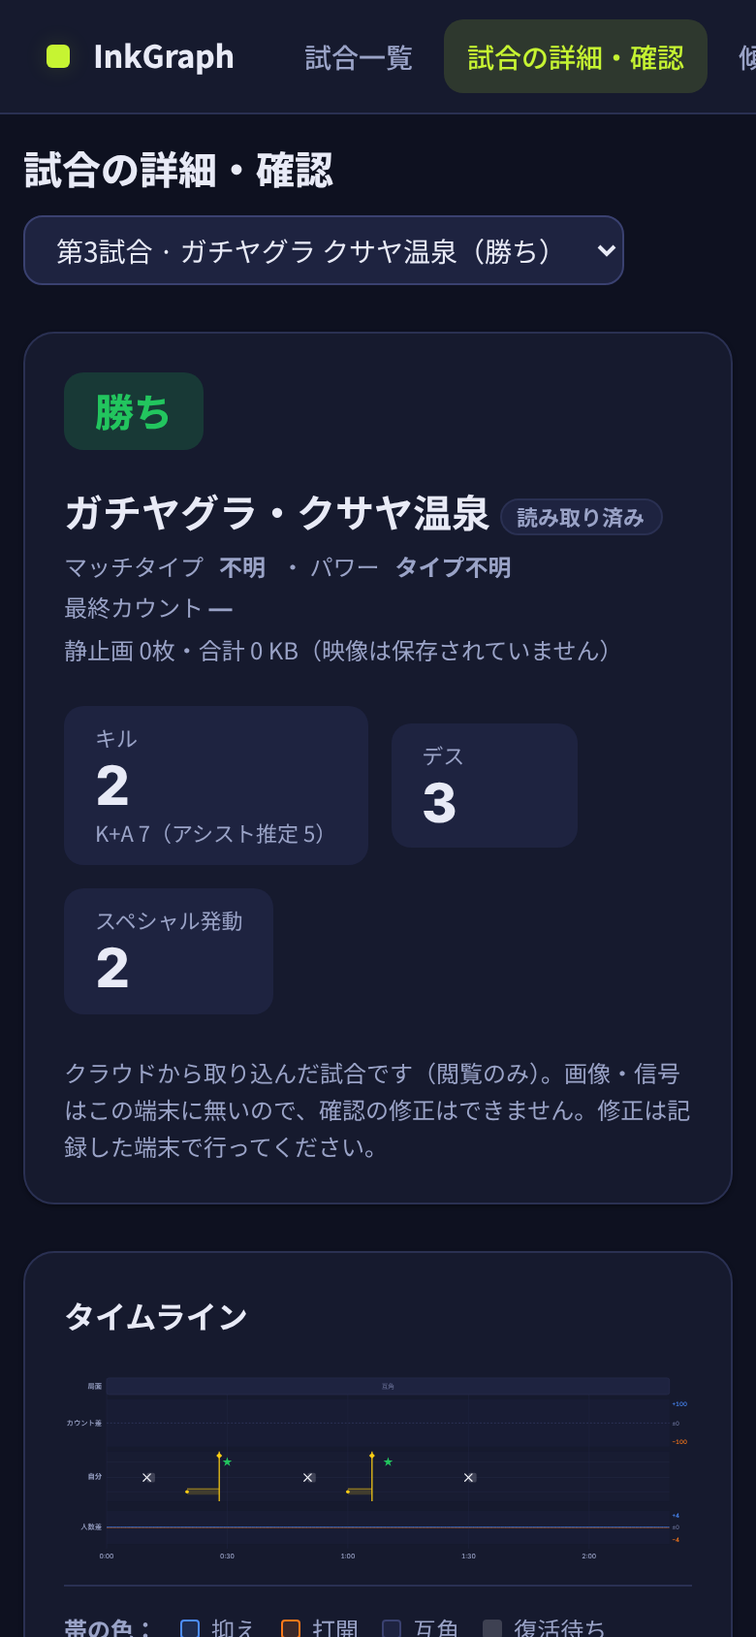
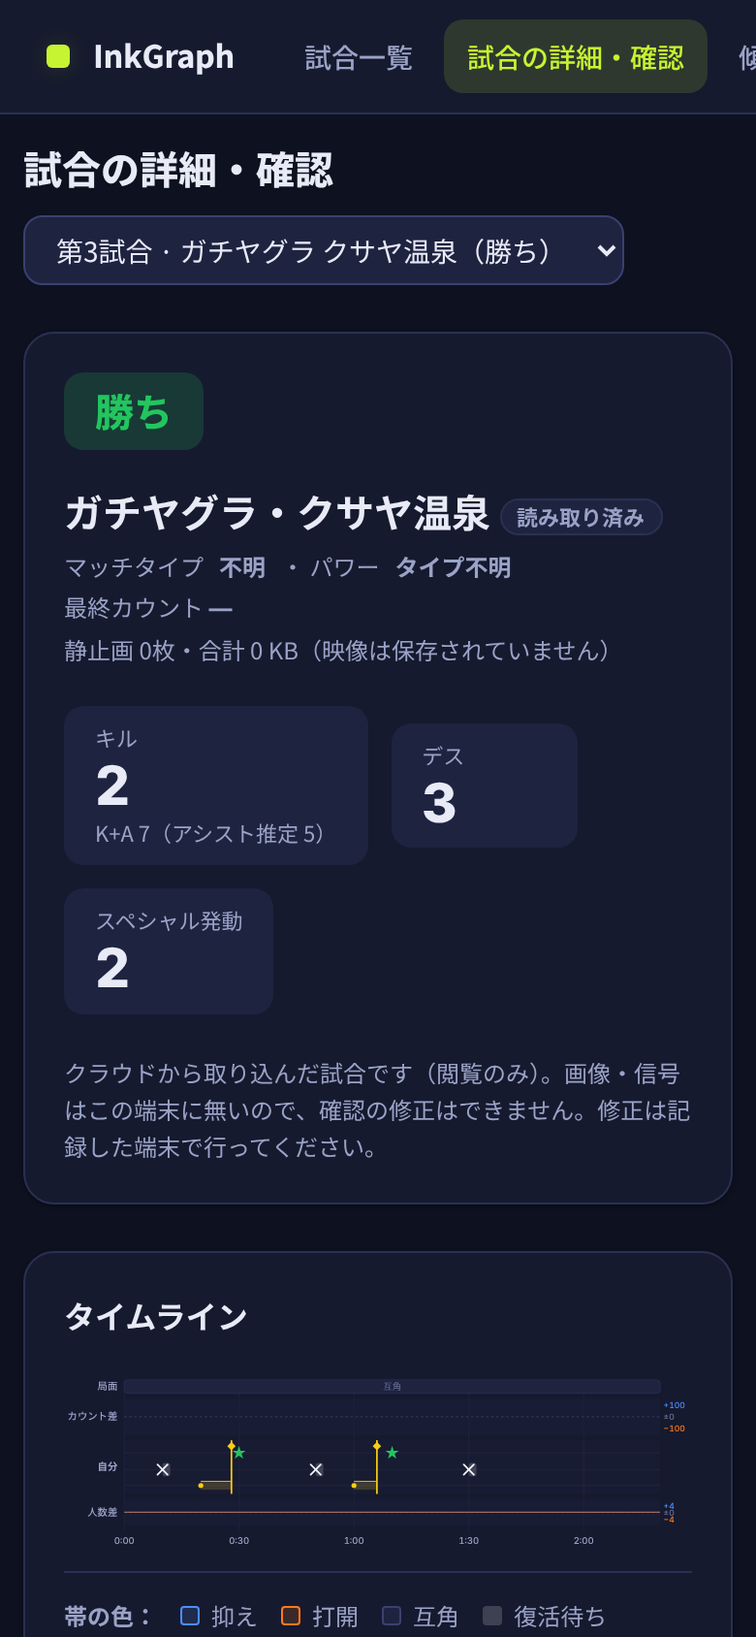
詳細画面の配置: 録画｜出来事を上段、コンパクトなタイムラインを下段 (D89) (#184)
* 検証録画: 直近1試合の全コマ＋分析結果のzip書き出し (D67)

Claude-Session: https://claude.ai/code/session_018zsqgbHNLDpb8cVTBpk5SR

* 試合ごとの録画ファイル: ルール・ステージ入りの名前で1試合1ファイル (D68)

Claude-Session: https://claude.ai/code/session_018zsqgbHNLDpb8cVTBpk5SR

* 試合録画にゲーム音を追加 (D68追記)

Claude-Session: https://claude.ai/code/session_018zsqgbHNLDpb8cVTBpk5SR

* ブキアイコンの読み違い対策（ボードの数が読めない枠を捨てる・絵の無いアイコンを出さない）と記録の全消去ボタン (D69)

Claude-Session: https://claude.ai/code/session_018zsqgbHNLDpb8cVTBpk5SR

* 試合録画: 状況表示と保存先の書き込み許可の聞き直し (D70)

Claude-Session: https://claude.ai/code/session_018zsqgbHNLDpb8cVTBpk5SR

* 試合録画: 2試合連続で別ファイルになることのテストを追加

Claude-Session: https://claude.ai/code/session_018zsqgbHNLDpb8cVTBpk5SR

* Windows デスクトップ版（Electron）の追加。ブラウザ版は録画なし・隠さない注意つきで残す (D71)

Claude-Session: https://claude.ai/code/session_018zsqgbHNLDpb8cVTBpk5SR

* 録画の診断通知を各段階に追加 (D71追記)

Claude-Session: https://claude.ai/code/session_018zsqgbHNLDpb8cVTBpk5SR

* Windows版ビルドをmainの変更で自動実行し、固定リリース desktop-latest に出す

Claude-Session: https://claude.ai/code/session_018zsqgbHNLDpb8cVTBpk5SR

* ライブ映像で「早送り」が渡って録画・中断検出が切れていた不具合を修正 (D71追記)

Claude-Session: https://claude.ai/code/session_018zsqgbHNLDpb8cVTBpk5SR

* 録画形式をMP4(H.264)にする。WebMも選べる (D72)

Claude-Session: https://claude.ai/code/session_018zsqgbHNLDpb8cVTBpk5SR

* video_rec_check: 既定のMP4に合わせてテストを更新

Claude-Session: https://claude.ai/code/session_018zsqgbHNLDpb8cVTBpk5SR

* 録画を60fps・音声192kbpsに。画質(5/8/12Mbps)を選べる (D72追記)
[…]

diff --git a/web/src/timeline.js b/web/src/timeline.js
@@ -43,7 +43,8 @@ export function renderTimeline(m, { onSeek, onReviewChange, reviewMode, cands = 
   popAbort = new AbortController();
   const popSignal = popAbort.signal;
   const t0 = m.battle[0], t1 = m.battle[1], Tm = Math.max(60, t1 - t0);
-  const L = 72, Wd = 950, Rpad = 38, W = L + Wd + Rpad;
+  // D89: コンパクトな表示。幅は、置かれた場所の幅に合わせる（viewBox を実寸に近づけて、縦も文字も大きく伸びないようにする）
+  const L = 72, Rpad = 38, hostW = (typeof document !== 'undefined' && document.querySelector('#tl')?.clientWidth) || 0, Wd = hostW ? Math.max(640, Math.min(1700, hostW - L - Rpad)) : 950, W = L + Wd + Rpad;
   const X = t => L + Math.max(0, Math.min(1, (t - t0) / Tm)) * Wd;
   const ev = effective(m), S = series(m), holderSegs = holderSegments(m);
   const uid = Math.random().toString(36).slice(2, 8);
@@ -61,8 +62,8 @@ export function renderTimeline(m, { onSeek, onReviewChange, reviewMode, cands = 
   let body = '';
 
   // ---------------- 1. 局面の帯 (28px) ----------------
-  const phaseY = y, phaseH = 28;
-  body += `<text x="${L - 8}" y="${phaseY + 18}" text-anchor="end" font-size="12" font-weight="500" fill="var(--text-muted)">局面</text>`;
+  const phaseY = y, phaseH = 16;
+  body += `<text x="${L - 8}" y="${phaseY + 12}" text-anchor="end" font-size="12" font-weight="500" fill="var(--text-muted)">局面</text>`;
   body += `<rect x="${L}" y="${phaseY}" width="${Wd}" height="${phaseH}" fill="var(--surface-2)" rx="4"/>`;
   if (S.length) {
     const runs = [];
@@ -82,18 +83,18 @@ export function renderTimeline(m, { onSeek, onReviewChange, reviewMode, cands = 
       const col = r.ph === '抑え' ? 'var(--ally)' : r.ph === '打開' ? 'var(--enemy)' : 'var(--text-muted)';
       body += `<rect x="${xa.toFixed(1)}" y="${phaseY}" width="${w.toFixed(1)}" height="${phaseH}" fill="${fill}"/>`;
       if (w >= 36) {
-        body += `<text x="${((xa + xb) / 2).toFixed(1)}" y="${phaseY + 18}" text-anchor="middle" font-size="11" font-weight="700" fill="${col}">${r.ph}</text>`;
+        body += `<text x="${((xa + xb) / 2).toFixed(1)}" y="${phaseY + 12}" text-anchor="middle" font-size="11" font-weight="700" fill="${col}">${r.ph}</text>`;
       }
     }
   } else {
-    body += `<text x="${L + Wd / 2}" y="${phaseY + 18}" text-anchor="middle" font-size="11" fill="var(--text-faint)">互角</text>`;
+    body += `<text x="${L + Wd / 2}" y="${phaseY + 12}" text-anchor="middle" font-size="11" fill="var(--text-faint)">互角</text>`;
   }
   body += unknownBand(phaseY, phaseH);
   body += `<rect x="${L}" y="${phaseY}" width="${Wd}" height="${phaseH}" fill="none" stroke="var(--border)" rx="4"/>`;
-  y += phaseH + 8;
+  y += phaseH + 6;
 
   // ---------------- 2. カウント差のグラフ (80px) ----------------
-  const cdY = y, cdH = 80, cdMid = cdY + cdH / 2;
+  const cdY = y, cdH = 44, cdMid = cdY + cdH / 2;
   const Ycd = d => cdMid - (Math.max(-100, Math.min(100, d || 0)) / 100) * (cdH / 2 - 6);
   defs += `<clipPath id="cd-pos-${uid}"><rect x="${L}" y="${cdY}" width="${Wd}" height="${cdH / 2}"/></clipPath>`;
   defs += `<clipPath id="cd-neg-${uid}"><rect x="${L}" y="${cdMid}" width="${Wd}" height="${cdH / 2}"/></clipPath>`;
@@ -110,12 +111,12 @@ export function renderTimeline(m, { onSeek, onReviewChange, reviewMode, cands = 
   body += `<text x="${L + Wd + 4}" y="${cdY + 12}" class="num" font-size="10" fill="var(--ally)">+100</text>`;
   body += `<text x="${L + Wd + 4}" y="${cdMid + 4}" class="num" font-size="10" fill="var(--text-faint)">±0</text>`;
   body += `<text x="${L + Wd + 4}" y="${cdY + cdH - 4}" class="num" font-size="10" fill="var(--enemy)">−100</text>`;
-  y += cdH + 8;
+  y += cdH + 6;
 
   // ---------------- 3. 自分レーン (84px) ----------------
-  const ownY = y, ownH = 84;
-  const rowY = { kill: ownY + 18, death: ownY + 44, special: ownY + 68 };
-  body += `<text x="${L - 8}" y="${ownY + 46}" text-anchor="end" font-size="12" font-weight="700" fill="var(--text-muted)">自分</text>`;
+  const ownY = y, ownH = 64;
+  const rowY = { kill: ownY + 15, death: ownY + 35, special: ownY + 54 };
+  body += `<text x="${L - 8}" y="${ownY + 36}" text-anchor="end" font-size="12" font-weight="700" fill="var(--text-muted)">自分</text>`;
   body += `<rect x="${L}" y="${ownY}" width="${Wd}" height="${ownH}" fill="var(--surface-2)" fill-opacity="0.25"/>`;
   for (const r of [rowY.kill, rowY.death, rowY.special]) {
     body += `<line x1="${L}" x2="${L + Wd}" y1="${r}" y2="${r}" stroke="var(--border)" stroke-opacity="0.5"/>`;
@@ -172,7 +173,7 @@ export function renderTimeline(m, { onSeek, onReviewChange, reviewMode, cands = 
 
   // ---------------- 4. 勝率グラフ (132px >= 120px) ----------------
   const SHOW_WP = false; // D81: 勝率予測は一旦出さない（計算と wp_delta の保存は残す）
-  const wpY = ownY + ownH + 8, wpH = SHOW_WP ? 132 : 0, wpMid = wpY + wpH / 2;
+  const wpY = ownY + ownH + 6, wpH = SHOW_WP ? 132 : 0, wpMid = wpY + wpH / 2;
   const Ywp = v => wpY + wpH - 8 - Math.max(0, Math.min(1, v)) * (wpH - 16);
   if (SHOW_WP) {
   defs += `<clipPath id="wp-up-${uid}"><rect x="${L}" y="${wpY}" width="${Wd}" height="${wpH / 2}"/></clipPath>`;
@@ -225,10 +226,10 @@ export function renderTimeline(m, { onSeek, onReviewChange, reviewMode, cands = 
       }
     }
   }
-  y = wpY + wpH + 8;
+  y = wpY + wpH + (SHOW_WP ? 8 : 0);
 
   // ---------------- 5. 人数差 (56px, smoothed <1s) ----------------
-  const alY = y, alH = 56, alMid = alY + alH / 2;
+  const alY = y, alH = 32, alMid = alY + alH / 2;
   const Yal = d => alMid - (Math.max(-4, Math.min(4, d)) / 4) * (alH / 2 - 4);
   defs += `<clipPath id="al-pos-${uid}"><rect x="${L}" y="${alY}" width="${Wd}" height="${alH / 2}"/></clipPath>`;
   defs += `<clipPath id="al-neg-${uid}"><rect x="${L}" y="${alMid}" width="${Wd}" height="${alH / 2}"/></clipPath>`;
@@ -262,14 +263,14 @@ export function renderTimeline(m, { onSeek, onReviewChange, reviewMode, cands = 
   body += `<text x="${L + Wd + 4}" y="${alY + 12}" class="num" font-size="10" fill="var(--ally)">+4</text>`;
   body += `<text x="${L + Wd + 4}" y="${alMid + 4}" class="num" font-size="10" fill="var(--text-faint)">±0</text>`;
   body += `<text x="${L + Wd + 4}" y="${alY + alH - 4}" class="num" font-size="10" fill="var(--enemy)">−4</text>`;
-  y += alH + 8;
+  y += alH + 6;
 
   // ---------------- 6. ヤグラ (70px) ----------------
   if (S.length) {
     const isReview = reviewMode !== undefined ? !!reviewMode : (typeof document !== 'undefined' && !!document.querySelector('.detail-body.review-on'));
-    const tcY = y, tcH = 70;
+    const tcY = y, tcH = 46;
     const Ytc = v => tcY + tcH - 10 - (Math.max(0, Math.min(100, v || 0)) / 100) * (tcH - 18);
-    body += `<text x="${L - 8}" y="${tcY + 38}" text-anchor="end" font-size="12" font-weight="500" fill="var(--text-muted)">ヤグラ</text>`;
+    body += `<text x="${L - 8}" y="${tcY + 28}" text-anchor="end" font-size="12" font-weight="500" fill="var(--text-muted)">ヤグラ</text>`;
     body += `<rect x="${L}" y="${tcY}" width="${Wd}" height="${tcH}" fill="var(--surface-2)" fill-opacity="0.35"/>`;
     // Holder band at bottom of lane: review mode has 14px height and 24px hit area
     const bandH = isReview ? 14 : 8, bandY = tcY + tcH - bandH;
@@ -317,7 +318,7 @@ export function renderTimeline(m, { onSeek, onReviewChange, reviewMode, cands = 
     }
     body += unknownBand(tcY, tcH);
     body += `<text x="${L + Wd + 4}" y="${tcY + 12}" class="num" font-size="10" fill="var(--text-muted)">100</text>`;
-    y += tcH + 8;
+    y += tcH + 6;
   }
 
   // Time axis (30s ticks)
@@ -328,7 +329,7 @@ export function renderTimeline(m, { onSeek, onReviewChange, reviewMode, cands = 
     gridLines += `<line x1="${gx}" x2="${gx}" y1="${phaseY}" y2="${axisY}" stroke="var(--border)" stroke-opacity="0.45"/>`;
     body += `<text x="${gx}" y="${axisY + 16}" text-anchor="middle" class="num" font-size="11" fill="var(--text-muted)">${mss(dt)}</text>`;
   }
-  const totalH = axisY + 24;
+  const totalH = axisY + 22;
 
   const mainSvg = `<svg xmlns="${NS}" viewBox="0 0 ${W} ${totalH}" class="timeline-svg">
     <defs>${defs}</defs>

diff --git a/web/src/main.js b/web/src/main.js
@@ -1604,20 +1604,22 @@ PAGES.match = async () => {
     </div>
 
     <div class="detail-body ${reviewMode ? 'review-on' : ''}" id="detail-body">
-      <div class="card detail-timeline-card" id="rec-top-card" style="display:none"><div class="card-title">録画</div><div id="rec-top-slot" style="max-width:820px"></div></div>
+      <div class="card detail-timeline-card" id="rec-top-card" style="display:none"><div class="card-title">録画</div><div id="rec-top-slot"></div></div>
       <div class="card detail-timeline-card">
         <div class="card-title" style="display:flex;justify-content:space-between;align-items:center;gap:8px"><span>タイムライン</span>${m.remote || !m.cands ? '' : '<label class="muted" style="font-size:var(--fs-xs);font-weight:400;display:inline-flex;gap:4px;align-items:center;cursor:pointer"><input type="checkbox" id="cand-tl"> 補正候補を表示</label>'}</div>
         <div id="tl"></div>
       </div>
 
       <div class="card detail-events-card">
-        <div class="card-title">出来事</div>
-        <table class="table" id="etab"></table>
+        <div class="evt-scroll">
+          <div class="card-title">出来事</div>
+          <table class="table" id="etab"></table>
+        </div>
       </div>
 
-      <aside class="review-panel" id="review-panel">
+      <aside class="review-panel" id="review-panel"><div class="rv-scroll">
         <div class="card">
-          <div class="card-title">確認用の映像</div>
+          <div class="card-title" id="rv-title">確認用の映像</div>
           <div id="rec-box" class="rec-box" style="display:none"></div>
           <div class="review-video-wrap" style="position:relative">
             <img id="still-img" alt="確認用の静止画" style="width:100%;height:100%;object-fit:contain;display:none">
@@ -1653,7 +1655,7 @@ PAGES.match = async () => {
 
         <button class="btn btn-primary" id="fbone" type="button" style="width:100%">試合一覧でまとめて書き出す →</button>
         <div class="export-state" id="fbone-state">この試合：${esc(EXPORT_STATE_LABEL[exportStateOf(m)])}（確認済み ${confirmedCount(m)}件）</div>
-      </aside>
+      </div></aside>
     </div>
   `;
 
@@ -1883,7 +1885,7 @@ PAGES.match = async () => {
       if (!recVideo) return; const top = true, was = { t: recVideo.currentTime, playing: !recVideo.paused };
       const card = $('#rec-top-card', page), slot = $('#rec-top-slot', page);
       if (top) { slot.appendChild(recBox); card.style.display = ''; } else { recHome.insertBefore(recBox, recHomeNext && recHomeNext.parentNode === recHome ? recHomeNext : null); card.style.display = 'none'; }
-      recBox.style.display = '';
+      recBox.style.display = ''; $('#detail-body', page).classList.add('has-rec'); { const rt = $('#rv-title', page); if (rt) rt.textContent = '確認・修正'; } // D89: 録画があるときは、上段＝録画｜出来事（｜確認パネル）、下段＝タイムライン
       if (Number.isFinite(was.t) && Math.abs(recVideo.currentTime - was.t) > 0.3) recVideo.currentTime = was.t; // 付け替えで位置が戻ることがあるので、直す
       if (was.playing) recVideo.play().catch(() => {});
     };
@@ -1902,7 +1904,7 @@ PAGES.match = async () => {
     const cap = $('#rec-cap', page);
     recVideo.ontimeupdate = () => { const t = rcd.t0 + recVideo.currentTime; lastSeekTime = t; cap.textContent = `${mss1(t)}（バトル開始から）`; if (tlEl && tlEl.setPlayhead) tlEl.setPlayhead(t); };
     recVideo.onloadedmetadata = () => { recSeekTo(Math.max(rcd.t0, m.battle[0]), false); };
-    recVideo.onerror = () => { recVideo = null; setVideoMode(false); recBox.style.display = ''; recBox.innerHTML = '<div class="muted">録画ファイルを開けません（移動・削除された可能性があります）。静止画で確認します。</div>'; showStill(lastSeekTime, Infinity); };
+    recVideo.onerror = () => { recVideo = null; $('#detail-body', page).classList.remove('has-rec'); { const rt = $('#rv-title', page); if (rt) rt.textContent = '確認用の映像'; } $('#rec-top-card', page).style.display = 'none'; setVideoMode(false); recBox.style.display = ''; recBox.innerHTML = '<div class="muted">録画ファイルを開けません（移動・削除された可能性があります）。静止画で確認します。</div>'; showStill(lastSeekTime, Infinity); };
     page.querySelectorAll('.rec-step').forEach(b => { b.onclick = () => { if (!recVideo) return; recVideo.pause(); recVideo.currentTime = Math.max(0, recVideo.currentTime + parseFloat(b.dataset.d)); }; });
     $('#rec-speed', page).onchange = e => { if (recVideo) recVideo.playbackRate = +e.target.value; };
     recKeyHandler = e => {
@@ -2009,6 +2011,7 @@ PAGES.match = async () => {
     else if (opts.focus) tlEl.focusSegment(opts.focus);
   };
   { const ct = $('#cand-tl', page); if (ct) { ct.checked = candOnTL; ct.onchange = () => { candOnTL = ct.checked; drawTL(); }; } }
+  { if (window.__tlResize) window.removeEventListener('resize', window.__tlResize); let rt = null, lastW = $('#tl', page)?.clientWidth || 0; window.__tlResize = () => { clearTimeout(rt); rt = setTimeout(() => { const w = $('#tl', page)?.clientWidth || 0; if (currentPage === 'match' && w && Math.abs(w - lastW) > 24) { lastW = w; drawTL(); } }, 250); }; window.addEventListener('resize', window.__tlResize); } // D89: タイムラインは、幅に合わせて描き直す
 
   const accDraw = () => {
     const a = accuracy([m]);

diff --git a/desktop/tools/desktop_check.js b/desktop/tools/desktop_check.js
@@ -127,7 +127,7 @@ app.whenReady().then(async () => {
       const vr = v.getBoundingClientRect(), tr = tl.getBoundingClientRect(), svg = tl.querySelector('svg'), sr = svg.getBoundingClientRect(), vb = svg.viewBox.baseVal;
       const out = { shown: getComputedStyle(card).display !== 'none' && card.contains(v), above: vr.bottom <= tr.top + 1 && vr.width > 200, dur: v.duration };
       // タイムラインの 50% の位置（バトル 100 秒の中の 50 秒）をクリック
-      const fx = (72 + 0.5 * 950) / vb.width; svg.dispatchEvent(new MouseEvent('click', { bubbles: true, clientX: sr.left + fx * sr.width, clientY: sr.top + sr.height * 0.5 }));
+      const fx = (72 + 0.5 * (vb.width - 110)) / vb.width; svg.dispatchEvent(new MouseEvent('click', { bubbles: true, clientX: sr.left + fx * sr.width, clientY: sr.top + sr.height * 0.5 }));
       await new Promise(r => v.addEventListener('seeked', r, { once: true })); await new Promise(r => setTimeout(r, 300));
       out.after = v.currentTime; out.playing = !v.paused; return out; })()`);
     check(tp.shown && tp.above && Math.abs(tp.after - 50) < 1.5 && tp.playing, '(31) レビューモードでないとき、録画がタイムラインの上に出て、タイムラインのクリックで、その秒数（50 秒）から再生される', JSON.stringify(tp));
@@ -136,6 +136,16 @@ app.whenReady().then(async () => {
     check(tp2.top !== 'none' && tp2.inTop && !tp2.inAside && tp2.wide && tp2.above, '(32) レビューモードでも、録画はタイムラインの上に、通常モードと同じ大きさで出る（右の確認パネルには移らない）', JSON.stringify(tp2));
     await js(`document.querySelector('#review-toggle').click()`); await sleep(1200);
     check(await js(`getComputedStyle(document.querySelector('#rec-top-card')).display !== 'none' && !!document.querySelector('#rec-top-slot #rec-video')`), '(33) レビューモードを切っても、録画はタイムラインの上のまま');
+    // D89: 録画があるときの配置。上段＝録画｜出来事（レビューモードでは右に確認パネル）、下段＝タイムライン
+    const layout = () => js(`(() => { const r = s => document.querySelector(s).getBoundingClientRect(), v = r('#rec-video'), e = r('.detail-events-card'), t = r('#tl'), c = r('#rec-top-card'), rp = document.querySelector('#review-panel'), pr = rp ? rp.getBoundingClientRect() : null, cs = getComputedStyle(rp);
+      return { hasRec: document.querySelector('#detail-body').classList.contains('has-rec'), vw: Math.round(v.width), evtBeside: e.left >= c.right - 1 && Math.abs(e.top - c.top) < 2 && Math.abs(e.bottom - c.bottom) < 2, tlBelow: t.top >= Math.max(c.bottom, e.bottom) - 1, tlH: Math.round(t.height), rpShown: cs.display !== 'none', rpBeside: pr ? pr.left >= e.right - 1 && Math.abs(pr.top - c.top) < 2 : null, scrollsInside: document.querySelector('.evt-scroll').scrollHeight >= 0 }; })()`);
+    w.setContentSize(1920, 1080); await sleep(1200); // 画面が広いとき（3 列）の配置を確かめる
+    const L1 = await layout(); if (process.env.SHOT_DIR) fs.writeFileSync(path.join(process.env.SHOT_DIR, 'layout_normal.png'), (await w.webContents.capturePage()).toPNG());
+    check(L1.hasRec && L1.vw >= 560 && L1.vw <= 620 && L1.evtBeside && L1.tlBelow && L1.tlH < 330 && !L1.rpShown, '(47) 通常モード: 上段に録画（約600px）と出来事が並び、タイムラインは下段で低い', JSON.stringify(L1));
+    await js(`window.inkgraph.setReviewMode(true)`); await sleep(2200);
+    const L2 = await layout(); if (process.env.SHOT_DIR) fs.writeFileSync(path.join(process.env.SHOT_DIR, 'layout_review.png'), (await w.webContents.capturePage()).toPNG());
+    check(L2.hasRec && L2.evtBeside && L2.rpShown && L2.rpBeside && L2.tlBelow, '(48) レビューモード: 上段の右に確認パネルが並び、タイムラインは下段', JSON.stringify(L2));
+    w.setContentSize(1280, 800); await sleep(800);
     await js(`window.inkgraph.setReviewMode(false)`);
     // 要修正パック: 一覧に印・フィルター・書き出しボタンが出る。書き出した zip に、差分と、録画から切り出したコマが入る
     await js(`window.inkgraph.db.getMatch(${JSON.stringify(ms[0].id)}).then(m => { m.needs_fix = { at: new Date().toISOString(), reasons: ['kill'] }; m.review.marks = { }; return window.inkgraph.db.putMatch(m); })`);

diff --git a/web/src/style.css b/web/src/style.css
@@ -2263,3 +2263,34 @@ tr.added td {
   svg { max-width: 100%; height: auto; }
   #learn-panel, #tune-panel, #retention-panel { display: none; } /* 自己学習・自動調整は記録する PC の機能 */
 }
+
+/* D89: 録画があるときの詳細画面。上段＝録画（約600px）｜出来事（｜レビューモードでは確認パネル）、下段＝タイムライン（全幅）。
+   出来事と確認パネルは、上段（録画の高さ）の中でスクロールする */
+.rv-scroll, .evt-scroll { display: contents; }
+.detail-body.has-rec {
+  align-items: stretch;
+  grid-template-columns: minmax(0, 640px) minmax(0, 1fr);
+  grid-template-areas: "rec evt" "tl tl";
+}
+.detail-body.has-rec.review-on {
+  grid-template-columns: minmax(0, 640px) minmax(0, 1fr) 360px;
+  grid-template-areas: "rec evt rv" "tl tl tl";
+}
+.detail-body.has-rec #rec-top-card { grid-area: rec; }
+.detail-body.has-rec > .detail-timeline-card:not(#rec-top-card) { grid-area: tl; }
+.detail-body.has-rec .detail-events-card { grid-area: evt; position: relative; overflow: hidden; min-height: 0; padding: 0; }
+.detail-body.has-rec .evt-scroll { display: block; position: absolute; inset: 0; overflow: auto; padding: var(--sp-4); }
+.detail-body.has-rec .review-panel { grid-area: rv; position: relative; top: auto; width: auto; min-height: 0; overflow: hidden; }
+.detail-body.has-rec .rv-scroll { display: flex; flex-direction: column; gap: var(--sp-4); position: absolute; inset: 0; overflow: auto; }
+/* 幅が足りないときのレビューモード（1181〜1599px）: 確認パネルはタイムラインの下に回す（3 列だと出来事が細くなりすぎる） */
+@media (min-width: 1181px) and (max-width: 1599px) {
+  .detail-body.has-rec.review-on { grid-template-columns: minmax(0, 600px) minmax(0, 1fr); grid-template-areas: "rec evt" "tl tl" "rv rv"; }
+  .detail-body.has-rec.review-on .review-panel { overflow: visible; }
+  .detail-body.has-rec.review-on .rv-scroll { display: grid; position: static; grid-template-columns: repeat(auto-fit, minmax(320px, 1fr)); align-items: start; }
+}
+@media (max-width: 1180px) {
+  .detail-body.has-rec, .detail-body.has-rec.review-on { grid-template-columns: minmax(0, 1fr); grid-template-areas: "rec" "evt" "tl" "rv"; }
+  .detail-body.has-rec .detail-events-card { height: 340px; }
+  .detail-body.has-rec .review-panel { overflow: visible; }
+  .detail-body.has-rec .rv-scroll { display: contents; }
+}

diff --git a/docs/DECISIONS.md b/docs/DECISIONS.md
@@ -947,3 +947,10 @@
 - **レビューモードでも、録画は通常モードと同じ（タイムラインの上・大きく）**に置く（D79 の「レビューモードでは右パネルに移す」を廃止）。タイムラインを見ながら直せる。
 - **補正候補のオン・オフ**：タイムラインのカードの見出しに「補正候補を表示」。レビューモードに入ると自動でオン（あとは自分で切り替え）。通常モードでも出せる。候補の一覧（右パネル）は今までどおり。
 - テスト：`fix_pack_check`（状態・修正完了・video_pos）、`desktop_check`（(32)(33) 録画の位置、(40) ダイアログは修正済みだけ選べる、(45) 候補のオン・オフ、(46) ボタンで 3 状態）。`CHECK_LOG` で途中経過をファイルへ出せるようにした（テストが固まった場所が分かる）。
+
+## D89 (2026-10-30) 詳細画面の配置: 上段＝録画｜出来事（｜確認パネル）、下段＝コンパクトなタイムライン
+- 目的：録画・タイムライン・出来事を、スクロールなしで同時に見て直せるようにする。録画は小さくしない。
+- 録画があるとき（`#detail-body.has-rec`）：**上段**に、録画（列幅 640px・動画は約 600px）と出来事、レビューモードでは右に確認パネル（360px）。**下段**にタイムライン（全幅）。出来事と確認パネルは、上段（録画の高さ）の中でスクロール。幅 1181〜1599px のレビューモードは、確認パネルをタイムラインの下に回す（3 列だと出来事が細くなりすぎる）。1180px 以下は縦に積む。録画がない試合は従来どおり。
+- タイムラインを低くした：局面の帯 28→16px・カウント差 80→44・自分 84→64・人数差 56→32・ヤグラ 70→46・時間軸と余白を詰めた。さらに、**描画の幅を、置かれた場所の幅に合わせる**（以前は幅 950 の座標を引き伸ばしていたので、広い画面で縦も文字も大きくなっていた）。ウィンドウの幅が変わると描き直す。
+- テスト：`desktop_check.js` の (47)(48)（1920x1080 で、通常モード＝録画と出来事が並びタイムラインが下段、レビューモード＝確認パネルが右に並ぶ）。(31) のタイムラインのクリック位置を、幅に合わせた計算に変更。`SHOT_DIR` を指定すると、配置のスクリーンショットを保存する。
+- 未検証：実機の Windows・実際の画面サイズでの見た目（録画の幅 640px・出来事の列幅・タイムラインの高さは、見て調整する）。
